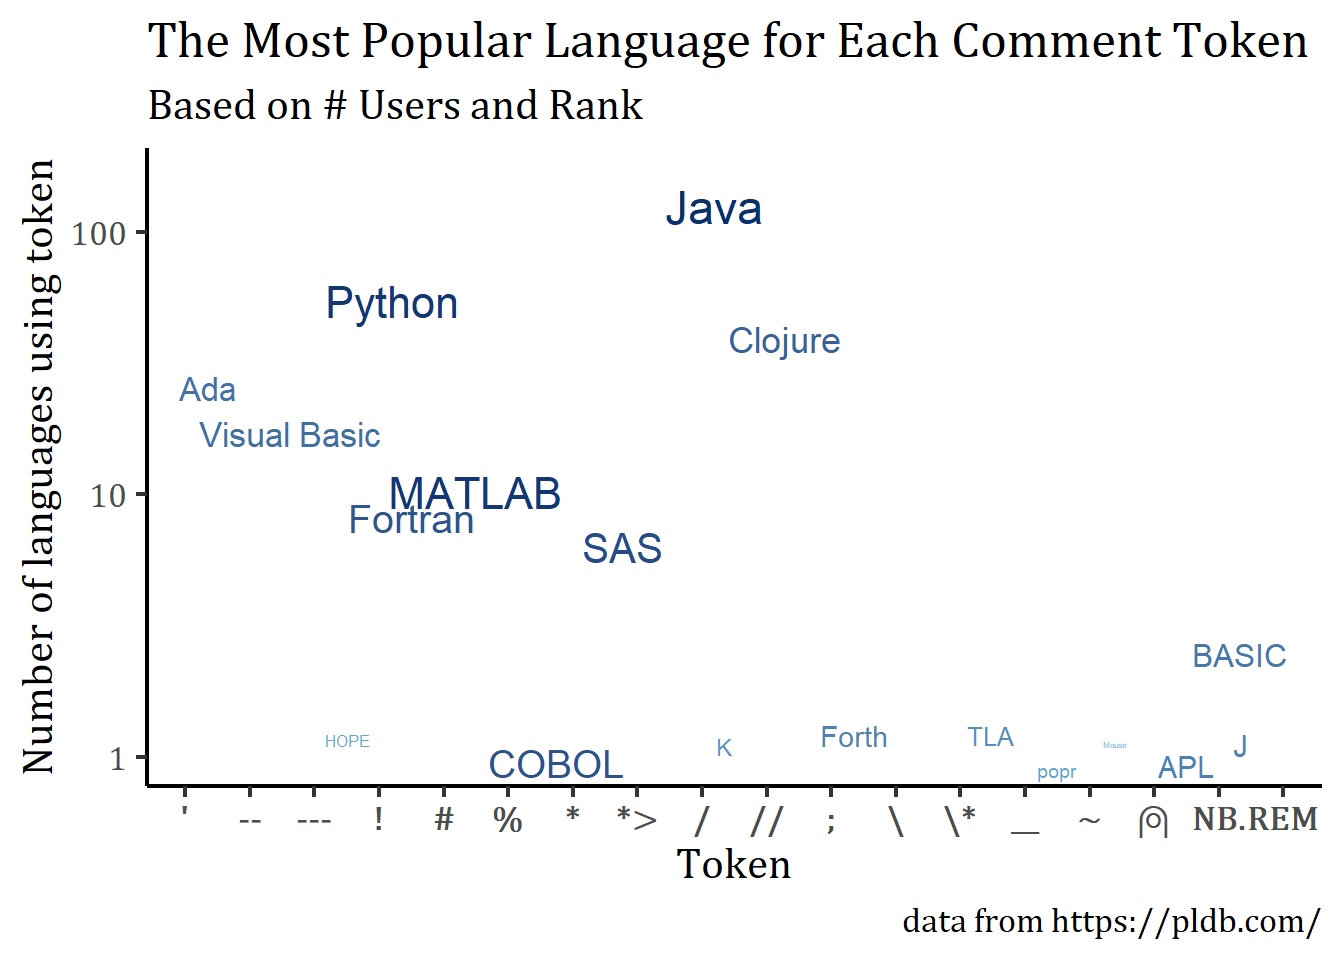
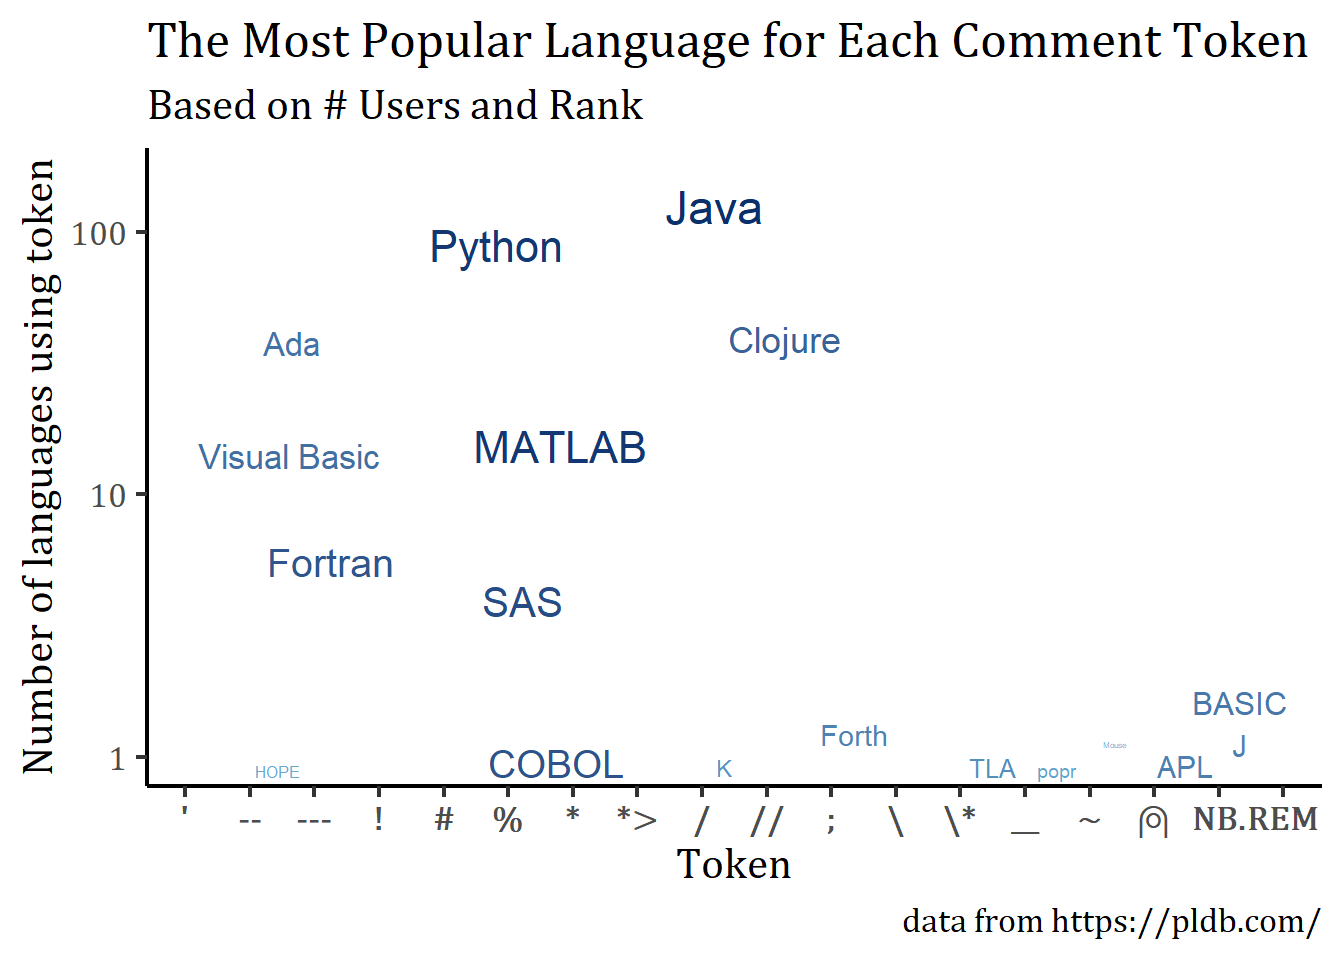
final rendering I hope

diff --git a/docs/posts/2023-03-22-tidytuesday-figure-polishing/index.html b/docs/posts/2023-03-22-tidytuesday-figure-polishing/index.html
@@ -155,8 +155,10 @@ cookieconsent.run({
 <link rel="stylesheet" href="../../styles.css">
 <meta name="twitter:title" content="Louise E. Sinks - TidyTuesday Week 12: Programming Languages Revisited">
 <meta name="twitter:description" content="TidyTuesday: Polishing">
-<meta name="twitter:image" content="https://lsinks.github.io/posts\2023-03-22-tidytuesday-figure-polishing\pop-lang-by-token.png">
+<meta name="twitter:image" content="https://lsinks.github.io/posts\2023-03-22-tidytuesday-figure-polishing\revised_fig.png">
 <meta name="twitter:creator" content="@LouiseSinks">
+<meta name="twitter:image-height" content="394">
+<meta name="twitter:image-width" content="640">
 <meta name="twitter:card" content="summary_large_image">
 </head>
 
@@ -926,12 +928,12 @@ cookieconsent.run({
 <span id="cb4-14"><a href="#cb4-14" aria-hidden="true" tabindex="-1"></a>  <span class="fu">tab_header</span>(<span class="at">title =</span> <span class="st">"Summary of Numerical Variables in Languages"</span>) </span></code><button title="Copy to Clipboard" class="code-copy-button"><i class="bi"></i></button></pre></div>
 <div class="cell-output-display column-page">
 
-<div id="gpaaiqwihe" style="padding-left:0px;padding-right:0px;padding-top:10px;padding-bottom:10px;overflow-x:auto;overflow-y:auto;width:auto;height:auto;">
+<div id="thxptbkzha" style="padding-left:0px;padding-right:0px;padding-top:10px;padding-bottom:10px;overflow-x:auto;overflow-y:auto;width:auto;height:auto;">
 <style>html {
   font-family: -apple-system, BlinkMacSystemFont, 'Segoe UI', Roboto, Oxygen, Ubuntu, Cantarell, 'Helvetica Neue', 'Fira Sans', 'Droid Sans', Arial, sans-serif;
 }
 
-:where(#gpaaiqwihe) .gt_table {
+:where(#thxptbkzha) .gt_table {
   display: table;
   border-collapse: collapse;
   margin-left: auto;
@@ -956,7 +958,7 @@ cookieconsent.run({
   border-left-color: #D3D3D3;
 }
 
-:where(#gpaaiqwihe) .gt_heading {
+:where(#thxptbkzha) .gt_heading {
   background-color: #FFFFFF;
   text-align: center;
   border-bottom-color: #FFFFFF;
@@ -968,12 +970,12 @@ cookieconsent.run({
   border-right-color: #D3D3D3;
 }
 
-:where(#gpaaiqwihe) .gt_caption {
+:where(#thxptbkzha) .gt_caption {
   padding-top: 4px;
   padding-bottom: 4px;
 }
 
-:where(#gpaaiqwihe) .gt_title {
+:where(#thxptbkzha) .gt_title {
   color: #333333;
   font-size: 125%;
   font-weight: initial;
@@ -985,7 +987,7 @@ cookieconsent.run({
   border-bottom-width: 0;
 }
 
-:where(#gpaaiqwihe) .gt_subtitle {
+:where(#thxptbkzha) .gt_subtitle {
   color: #333333;
   font-size: 85%;
   font-weight: initial;
@@ -997,13 +999,13 @@ cookieconsent.run({
   border-top-width: 0;
 }
 
-:where(#gpaaiqwihe) .gt_bottom_border {
+:where(#thxptbkzha) .gt_bottom_border {
   border-bottom-style: solid;
   border-bottom-width: 2px;
   border-bottom-color: #5F5F5F;
 }
 
-:where(#gpaaiqwihe) .gt_col_headings {
+:where(#thxptbkzha) .gt_col_headings {
   border-top-style: solid;
   border-top-width: 2px;
   border-top-color: #5F5F5F;
@@ -1018,7 +1020,7 @@ cookieconsent.run({
   border-right-color: #D3D3D3;
 }
 
-:where(#gpaaiqwihe) .gt_col_heading {
+:where(#thxptbkzha) .gt_col_heading {
   color: #FFFFFF;
   background-color: #0076BA;
   font-size: 100%;
@@ -1038,7 +1040,7 @@ cookieconsent.run({
   overflow-x: hidden;
 }
 
-:where(#gpaaiqwihe) .gt_column_spanner_outer {
+:where(#thxptbkzha) .gt_column_spanner_outer {
   color: #FFFFFF;
   background-color: #0076BA;
   font-size: 100%;
@@ -1050,15 +1052,15 @@ cookieconsent.run({
   padding-right: 4px;
 }
 
-:where(#gpaaiqwihe) .gt_column_spanner_outer:first-child {
+:where(#thxptbkzha) .gt_column_spanner_outer:first-child {
   padding-left: 0;
 }
 
-:where(#gpaaiqwihe) .gt_column_spanner_outer:last-child {
+:where(#thxptbkzha) .gt_column_spanner_outer:last-child {
   padding-right: 0;
 }
 
-:where(#gpaaiqwihe) .gt_column_spanner {
+:where(#thxptbkzha) .gt_column_spanner {
   border-bottom-style: solid;
   border-bottom-width: 2px;
   border-bottom-color: #5F5F5F;
@@ -1070,7 +1072,7 @@ cookieconsent.run({
   width: 100%;
 }
 
-:where(#gpaaiqwihe) .gt_group_heading {
+:where(#thxptbkzha) .gt_group_heading {
   padding-top: 8px;
   padding-bottom: 8px;
   padding-left: 5px;
@@ -1096,7 +1098,7 @@ cookieconsent.run({
   text-align: left;
 }
 
-:where(#gpaaiqwihe) .gt_empty_group_heading {
+:where(#thxptbkzha) .gt_empty_group_heading {
   padding: 0.5px;
   color: #333333;
   background-color: #FFFFFF;
@@ -1111,15 +1113,15 @@ cookieconsent.run({
   vertical-align: middle;
 }
 
-:where(#gpaaiqwihe) .gt_from_md > :first-child {
+:where(#thxptbkzha) .gt_from_md > :first-child {
   margin-top: 0;
 }
 
-:where(#gpaaiqwihe) .gt_from_md > :last-child {
+:where(#thxptbkzha) .gt_from_md > :last-child {
   margin-bottom: 0;
 }
 
-:where(#gpaaiqwihe) .gt_row {
+:where(#thxptbkzha) .gt_row {
   padding-top: 8px;
   padding-bottom: 8px;
   padding-left: 5px;
@@ -1138,7 +1140,7 @@ cookieconsent.run({
   overflow-x: hidden;
 }
 
-:where(#gpaaiqwihe) .gt_stub {
+:where(#thxptbkzha) .gt_stub {
   color: #333333;
   background-color: #89D3FE;
   font-size: 100%;
@@ -1151,7 +1153,7 @@ cookieconsent.run({
   padding-right: 5px;
 }
 
-:where(#gpaaiqwihe) .gt_stub_row_group {
+:where(#thxptbkzha) .gt_stub_row_group {
   color: #333333;
   background-color: #FFFFFF;
   font-size: 100%;
@@ -1165,11 +1167,11 @@ cookieconsent.run({
   vertical-align: top;
 }
 
-:where(#gpaaiqwihe) .gt_row_group_first td {
+:where(#thxptbkzha) .gt_row_group_first td {
   border-top-width: 2px;
 }
 
-:where(#gpaaiqwihe) .gt_summary_row {
+:where(#thxptbkzha) .gt_summary_row {
   color: #333333;
   background-color: #FFFFFF;
   text-transform: inherit;
@@ -1179,16 +1181,16 @@ cookieconsent.run({
   padding-right: 5px;
 }
 
-:where(#gpaaiqwihe) .gt_first_summary_row {
+:where(#thxptbkzha) .gt_first_summary_row {
   border-top-style: solid;
   border-top-color: #5F5F5F;
 }
 
-:where(#gpaaiqwihe) .gt_first_summary_row.thick {
+:where(#thxptbkzha) .gt_first_summary_row.thick {
   border-top-width: 2px;
 }
 
-:where(#gpaaiqwihe) .gt_last_summary_row {
+:where(#thxptbkzha) .gt_last_summary_row {
   padding-top: 8px;
   padding-bottom: 8px;
   padding-left: 5px;
@@ -1198,7 +1200,7 @@ cookieconsent.run({
   border-bottom-color: #5F5F5F;
 }
 
-:where(#gpaaiqwihe) .gt_grand_summary_row {
+:where(#thxptbkzha) .gt_grand_summary_row {
   color: #333333;
   background-color: #D5D5D5;
   text-transform: inherit;
@@ -1208,7 +1210,7 @@ cookieconsent.run({
   padding-right: 5px;
 }
 
-:where(#gpaaiqwihe) .gt_first_grand_summary_row {
+:where(#thxptbkzha) .gt_first_grand_summary_row {
   padding-top: 8px;
   padding-bottom: 8px;
   padding-left: 5px;
@@ -1218,11 +1220,11 @@ cookieconsent.run({
   border-top-color: #5F5F5F;
 }
 
-:where(#gpaaiqwihe) .gt_striped {
+:where(#thxptbkzha) .gt_striped {
   background-color: #EDF7FC;
 }
 
-:where(#gpaaiqwihe) .gt_table_body {
+:where(#thxptbkzha) .gt_table_body {
   border-top-style: solid;
   border-top-width: 2px;
   border-top-color: #5F5F5F;
@@ -1231,7 +1233,7 @@ cookieconsent.run({
   border-bottom-color: #5F5F5F;
 }
 
-:where(#gpaaiqwihe) .gt_footnotes {
+:where(#thxptbkzha) .gt_footnotes {
   color: #333333;
   background-color: #FFFFFF;
   border-bottom-style: none;
@@ -1245,7 +1247,7 @@ cookieconsent.run({
   border-right-color: #D3D3D3;
 }
 
-:where(#gpaaiqwihe) .gt_footnote {
+:where(#thxptbkzha) .gt_footnote {
   margin: 0px;
   font-size: 90%;
   padding-left: 4px;
@@ -1254,7 +1256,7 @@ cookieconsent.run({
   padding-right: 5px;
 }
 
-:where(#gpaaiqwihe) .gt_sourcenotes {
+:where(#thxptbkzha) .gt_sourcenotes {
   color: #333333;
   background-color: #FFFFFF;
   border-bottom-style: none;
@@ -1268,7 +1270,7 @@ cookieconsent.run({
   border-right-color: #D3D3D3;
 }
 
-:where(#gpaaiqwihe) .gt_sourcenote {
+:where(#thxptbkzha) .gt_sourcenote {
   font-size: 90%;
   padding-top: 4px;
   padding-bottom: 4px;
@@ -1276,64 +1278,64 @@ cookieconsent.run({
   padding-right: 5px;
 }
 
-:where(#gpaaiqwihe) .gt_left {
+:where(#thxptbkzha) .gt_left {
   text-align: left;
 }
 
-:where(#gpaaiqwihe) .gt_center {
+:where(#thxptbkzha) .gt_center {
   text-align: center;
 }
 
-:where(#gpaaiqwihe) .gt_right {
+:where(#thxptbkzha) .gt_right {
   text-align: right;
   font-variant-numeric: tabular-nums;
 }
 
-:where(#gpaaiqwihe) .gt_font_normal {
+:where(#thxptbkzha) .gt_font_normal {
   font-weight: normal;
 }
 
-:where(#gpaaiqwihe) .gt_font_bold {
+:where(#thxptbkzha) .gt_font_bold {
   font-weight: bold;
 }
 
-:where(#gpaaiqwihe) .gt_font_italic {
+:where(#thxptbkzha) .gt_font_italic {
   font-style: italic;
 }
 
-:where(#gpaaiqwihe) .gt_super {
+:where(#thxptbkzha) .gt_super {
   font-size: 65%;
 }
 
-:where(#gpaaiqwihe) .gt_footnote_marks {
+:where(#thxptbkzha) .gt_footnote_marks {
   font-style: italic;
   font-weight: normal;
   font-size: 75%;
   vertical-align: 0.4em;
 }
 
-:where(#gpaaiqwihe) .gt_asterisk {
+:where(#thxptbkzha) .gt_asterisk {
   font-size: 100%;
   vertical-align: 0;
 }
 
-:where(#gpaaiqwihe) .gt_indent_1 {
+:where(#thxptbkzha) .gt_indent_1 {
   text-indent: 5px;
 }
 
-:where(#gpaaiqwihe) .gt_indent_2 {
+:where(#thxptbkzha) .gt_indent_2 {
   text-indent: 10px;
 }
 
-:where(#gpaaiqwihe) .gt_indent_3 {
+:where(#thxptbkzha) .gt_indent_3 {
   text-indent: 15px;
 }
 
-:where(#gpaaiqwihe) .gt_indent_4 {
+:where(#thxptbkzha) .gt_indent_4 {
   text-indent: 20px;
 }
 
-:where(#gpaaiqwihe) .gt_indent_5 {
+:where(#thxptbkzha) .gt_indent_5 {
   text-indent: 25px;
 }
 </style>
@@ -1631,12 +1633,12 @@ cookieconsent.run({
 <div id="quarto-appendix" class="default"><section class="quarto-appendix-contents"><h2 class="anchored quarto-appendix-heading">Citation</h2><div><div class="quarto-appendix-secondary-label">BibTeX citation:</div><pre class="sourceCode code-with-copy quarto-appendix-bibtex"><code class="sourceCode bibtex">@online{e.sinks,
   author = {Louise E. Sinks},
   title = {TidyTuesday {Week} 12: {Programming} {Languages} {Revisited}},
-  url = {https://lsinks.github.io/},
+  url = {https://lsinks.github.io/posts/2023-03-22-tidytuesday-figure-polishing/},
   langid = {en}
 }
 </code><button title="Copy to Clipboard" class="code-copy-button"><i class="bi"></i></button></pre><div class="quarto-appendix-secondary-label">For attribution, please cite this work as:</div><div id="ref-e.sinks" class="csl-entry quarto-appendix-citeas" role="doc-biblioentry">
 Louise E. Sinks. n.d. <span>“TidyTuesday Week 12: Programming Languages
-Revisited.”</span> <a href="https://lsinks.github.io/">https://lsinks.github.io/</a>.
+Revisited.”</span> <a href="https://lsinks.github.io/posts/2023-03-22-tidytuesday-figure-polishing/">https://lsinks.github.io/posts/2023-03-22-tidytuesday-figure-polishing/</a>.
 </div></div></section></div></main> <!-- /main -->
 <script id="quarto-html-after-body" type="application/javascript">
 window.document.addEventListener("DOMContentLoaded", function (event) {

diff --git a/docs/posts.html b/docs/posts.html
@@ -270,11 +270,11 @@ Louise E. Sinks
 </div>
 </a>
 </div>
-<div class="g-col-1" data-index="2" data-categories="R,TidyTuesday,R-code,Code-Along,Data-Viz,skimr" data-listing-file-modified-sort="1679683362211" data-listing-reading-time-sort="5.67">
+<div class="g-col-1" data-index="2" data-categories="R,TidyTuesday,R-code,Code-Along,Data-Viz,skimr" data-listing-file-modified-sort="1679683973326" data-listing-reading-time-sort="5.67">
 <a href="./posts/2023-03-22-tidytuesday-figure-polishing/index.html" class="quarto-grid-link">
 <div class="quarto-grid-item card h-100 card-left">
 <p class="card-img-top">
-<img src="./posts/2023-03-22-tidytuesday-figure-polishing/pop-lang-by-token.png" class="thumbnail-image card-img" style="height: 150px;">
+<img src="./posts/2023-03-22-tidytuesday-figure-polishing/revised_fig.png" class="thumbnail-image card-img" style="height: 150px;">
 </p>
 <div class="card-body post-contents">
 <h5 class="no-anchor card-title listing-title">
